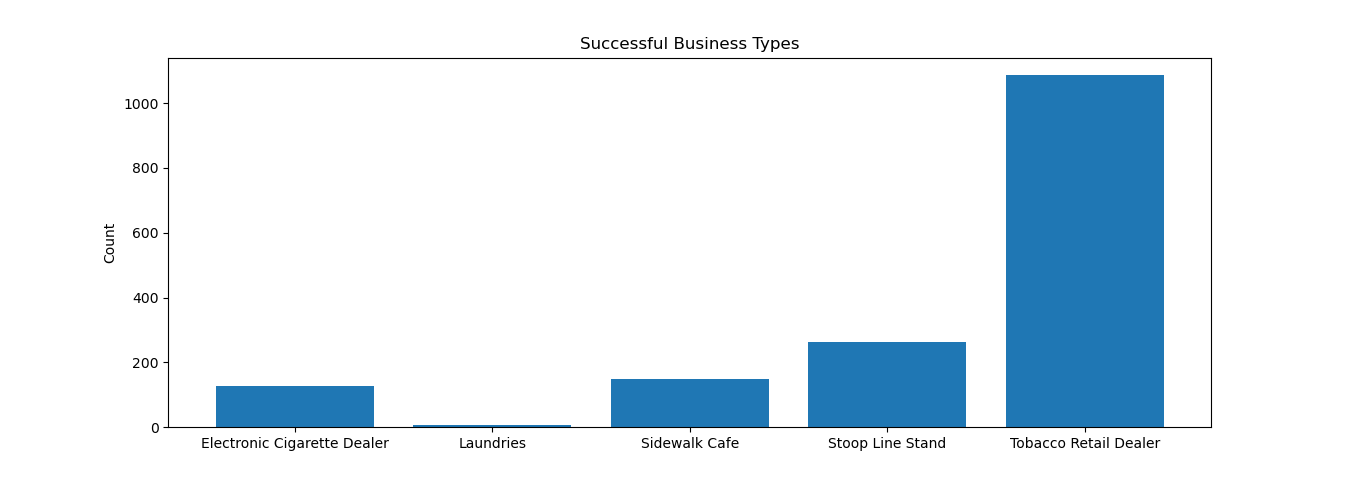
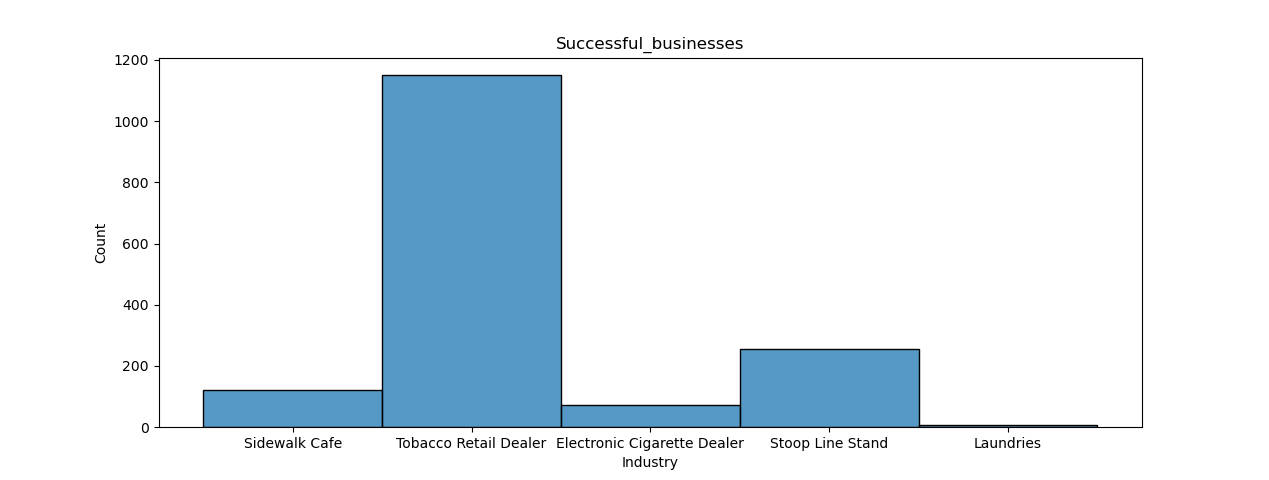
updated website put graphs and information regarding mean, median mode of graphs

diff --git a/src/InitialFindings.js b/src/InitialFindings.js
@@ -1,20 +1,23 @@
 import React from "react";
 import age_business from './SampleAverageDuration.png';
-import success_types from './Successful_business_types.png';
+import success_types from './successful_business_types.png';
 import unsuccess_types from './unsuccessful_types.png';
 import success_unsucess_map from './Success_unsuccess.png'
+import success_distance_from_times_sq from './successful_business_distance_from_times_sq_r100km.png'
+import success_distance_from_station from './successful_distance_from_station.png'
 
 function InitialFindings(){
     return(
-        <div class="container-fluid border">
-            
-            <div class="row">
-                <div class="col">
-                <img src={success_unsucess_map} alt="business map"></img>
-                </div>
-                <div class="col">
-                <h2>Initial Discoveries</h2>
-                When I first looked at this map I discovered that there were higher number of Successful business
+        <div class="container-fluid border mx-auto">
+            <h2 class="text-center">Initial Discoveries</h2>
+        <div class="row">
+            <div class="col">
+                <img src={success_unsucess_map} alt="business map" class="img-fluid"></img>
+            </div>
+            <div class="col">
+                
+                <h3>Distance from Mid Town and Success</h3>
+                <p>When I first looked at this map I discovered that there were higher number of Successful business
                 in manhattan compared to Queens, Brooklyn, Staten Island and Bronx. I also saw that teh density of 
                 successful and unsuccesful business ws higher around the train stations. Either all business wanted
                 to be accessible from the station or only those business who were accessible become successful. I 
@@ -22,30 +25,64 @@ function InitialFindings(){
                 if distance from times square had some relation to the success of a business. There was a good relation
                 between times square and the business. The further you go from times square the lesser the number of 
                 successful businesses. I chose times square because its very close to port authority, its also couple 
-                blocks from Grand Central. It has access to almost all trains that go everywhere in NYC.
-                </div>
-
-            </div>
-
-
-        <div class="row gx-1 gy-5" >
-            <div class="col">
-                <div class="card">
-                <img src={age_business} alt="business age"></img>
-                </div>
-            </div>
-            <div class="col">
-            <h3>Initial Findings</h3>
-            <p>Initially I wanted to find the best Place to establish Business as I
-            explored and analyzed the data I realized that first I needed to define
-            success for a business. I did this by looking at the age of all the business 
-            in NYC.I realize that median age of a business is 5 years so I decided any business over 5 years old
-            would be considered successful, because I did not have access to profits of the business and this 
-            was the only realiable method to determine success.
-            </p>
-            <p>I used histogram to show the number of business of and their respective ages.</p>
+                blocks from Grand Central. It has access to almost all trains that go everywhere in NYC.</p>
             </div>
         </div>
+            <div class="row gx-1 gy-5 mt-5">
+        
+            <div class="col">
+            <h3>Success and Age of business.</h3>
+            <p>During my analysis I also realized that first I needed to define
+            success for a business. I didn't have access to profit records so I needed alternate
+            variable that would give me a good measure of success. Using this graph I realized that I could used
+            age/(Duration of business) to weigh success.</p>
+            <p>The mean age of Business: </p>
+            <p>The median age of Businesses: </p>
+            <p>The mode age of Businesses: </p>
+            <p>The standard deviation value: </p>
+            <p>I used histogram to show the number of business of and their respective ages.</p>
+            </div>
+
+            <div class="col">
+                <div class="card">
+                <img src={age_business} alt="business age" class="img-fluid"></img>
+                </div>
+            </div>
+            </div>
+
+            <div class="row">
+                <div class="col">
+                    <img src={success_distance_from_times_sq} alt="successful business distance" class="img-fluid"></img>
+                </div>
+                <div class="col">
+                    <h2>Realtion between distance from Midtown and Success of a business.</h2>
+                    <p>From the diagram I realized that there is a correlation between distance from times
+                        square and Success of a Business.
+                    </p>
+                </div>
+                
+            </div>
+
+            <div class="row">
+                <div class="col">
+                    <h3> Distance from Station and Success</h3>
+                    <p>Similar to Distance form Times Square, there was also higher correlation between distance from station
+                        and success of a business.Business had higher chances of succes the closer they were. As we can see from the diagram
+                        that the curve is highly left-skewed.</p>
+
+                        <p>Mean distance of successful business is:0.44997 km</p>
+                        <p>Median distance of successful business = 0.27165 km</p>
+                        <p>mean distance of unsuccessful business is:0.458132 km</p>
+                        <p>Median distance of unsuccessful business = 0.299064 km </p>
+                </div>
+                <div class="col">
+                    <img src={success_distance_from_station} alt="success business and distance from station" class="img-fluid"></img>
+                </div>
+
+            </div>
+
+
+        
         
         <h3>Types of Business</h3>
         <div class="row gx-1 gy-5">
@@ -60,7 +97,7 @@ function InitialFindings(){
             </div>
             <div class="col">
                 <div class="card-body">
-                    <img src={success_types} alt="success_types"></img>
+                    <img src={success_types} alt="success_types" class="img-fluid"></img>
                 </div>
             </div>
         </div>
@@ -69,12 +106,14 @@ function InitialFindings(){
             <p>Unsuccessful business types</p>
                 <div class="col"> 
                     <div class="card">
-                        <img src={unsuccess_types} alt="unsuccess_types"></img>
+                        <img src={unsuccess_types} alt="unsuccess_types" class="img-fluid"></img>
                     </div>
                 </div>
                 <div class="col">
                 <p>We can see that Laundry has the highest number of unsuccessful types. There are also large number
-                of oif Electronic Cigerrette Deealer which are Unsuccessful.</p>
+                of oif Electronic Cigerrette Deealer which are Unsuccessful. While researching I also realized the reason 
+                why Laundries had such lower "age" and as a result "Success" according to my definition. It was because many 
+                people used laundry as a means to earn money to persue other business and was sold more oftern to other people.</p>
                 </div>
             </div>
         

diff --git a/public/index.html b/public/index.html
@@ -24,7 +24,7 @@
       work correctly both with client-side routing and a non-root public URL.
       Learn how to configure a non-root public URL by running `npm run build`.
     -->
-
+    <link rel="stylesheet" href="https://cdn.jsdelivr.net/npm/bootstrap@4.3.1/dist/css/bootstrap.min.css" integrity="sha384-ggOyR0iXCbMQv3Xipma34MD+dH/1fQ784/j6cY/iJTQUOhcWr7x9JvoRxT2MZw1T" crossorigin="anonymous">
     
     <title>React App</title>
   </head>
@@ -41,7 +41,7 @@
       To begin the development, run `npm start` or `yarn start`.
       To create a production bundle, use `npm run build` or `yarn build`.
     -->
-    <link rel="stylesheet" href="https://cdn.jsdelivr.net/npm/bootstrap@4.3.1/dist/css/bootstrap.min.css" integrity="sha384-ggOyR0iXCbMQv3Xipma34MD+dH/1fQ784/j6cY/iJTQUOhcWr7x9JvoRxT2MZw1T" crossorigin="anonymous">
+    
     <script src="https://code.jquery.com/jquery-3.3.1.slim.min.js" integrity="sha384-q8i/X+965DzO0rT7abK41JStQIAqVgRVzpbzo5smXKp4YfRvH+8abtTE1Pi6jizo" crossorigin="anonymous"></script>
     <script src="https://cdn.jsdelivr.net/npm/popper.js@1.14.7/dist/umd/popper.min.js" integrity="sha384-UO2eT0CpHqdSJQ6hJty5KVphtPhzWj9WO1clHTMGa3JDZwrnQq4sF86dIHNDz0W1" crossorigin="anonymous"></script>
     <script src="https://cdn.jsdelivr.net/npm/bootstrap@4.3.1/dist/js/bootstrap.min.js" integrity="sha384-JjSmVgyd0p3pXB1rRibZUAYoIIy6OrQ6VrjIEaFf/nJGzIxFDsf4x0xIM+B07jRM" crossorigin="anonymous"></script>

diff --git a/src/NavBar.js b/src/NavBar.js
@@ -1,0 +1,23 @@
+import React from "react";
+function NavBar(){
+    return(<div>
+        <div class="pos-f-t">
+            <div class="collapse" id="navbarToggleExternalContent">
+                <div class="bg-dark p-4">
+                    <h4 class="text-white"><a class="nav-link text-white" href="https://tnyima19.github.io/Assignment1/">Art Portfolio</a></h4>
+                    <h4 class="text-white"><a class="nav-link text-white" href="https://github.com/tnyima19/CountyDownty-2">CountyDownty</a></h4>
+                </div>
+            </div>
+        <nav class="navbar navbar-dark bg-dark">
+        <button class="navbar-toggler" type="button" data-toggle="collapse" data-target="#navbarToggleExternalContent" aria-controls="navbarToggleExternalContent" aria-expanded="false" aria-label="Toggle navigation">
+            <span class="navbar-toggler-icon"></span>
+        </button>
+        <li><a classs="nav-link" href="https://github.com/tnyima19/Calculate-Business-Success-Chance">GitHub</a>
+        </li>
+        </nav>
+        </div>
+       
+    </div>);
+};
+
+export default NavBar;

diff --git a/src/Results.js b/src/Results.js
@@ -1,0 +1,24 @@
+import React from "react";
+
+function Result(){
+    return(<div>
+        <h2> I chose Lasso Regression </h2>
+        <h3> What was your output for the final model you chose?</h3>
+        <p>The mean square error: 0.2769423558897243</p>
+        <p>Accuracy Score:  0.7230576441102757</p>
+        <h3>Why did you choose this model?</h3>
+        <p>Firstly because its the highest accuracy had low mean squared error 
+        compared to Naive Bayes and Random Forest who also had high accuracy, but didn't 
+        consistently predict with high accuracy like Lasso Regression. 
+        Lasso Regression Accuracy score:
+        Naive Bayes Accuracy score:0.61827|
+        Naive Bayes confusion matrix: [[88 278][27 406]]|
+        Random Forest Accuracy score: 0.67459|
+        Random Forest confusion matrix:[[232 134][126 307]]|
+
+        </p>
+        <p>Any Inference, interpretations, and insights from teh final model results</p>
+    </div>);
+};
+
+export default Result;

diff --git a/src/Tail.js b/src/Tail.js
@@ -1,7 +1,10 @@
 import React from "react";
 function Tail(){
-    return(<div>
-
+    return(<div class="box">
+        <div class="row">
+            <div class="col-4">tnyima19@gmail.com</div>
+            <div class="col-4"></div>
+        </div>
     </div>);
 }
 export default Tail;

diff --git a/src/Header.js b/src/Header.js
@@ -1,8 +1,9 @@
 import React from "react";
-
+import NavBar from "./NavBar"
 function Header(){
     return(<div>
-        <h1>Calculate Success of a Business</h1>
+        <NavBar></NavBar>
+        <h1 class="text-center">Calculate Success of a Business</h1>
     </div>)
 }
 

diff --git a/src/Body.js b/src/Body.js
@@ -1,9 +1,10 @@
 import React from "react";
 import InitialFindings from "./InitialFindings";
+import Results from "./Results";
 function Body(){
     return(<div>
-        
         <InitialFindings/>
+        <Results/>
     </div>);
 }
 
